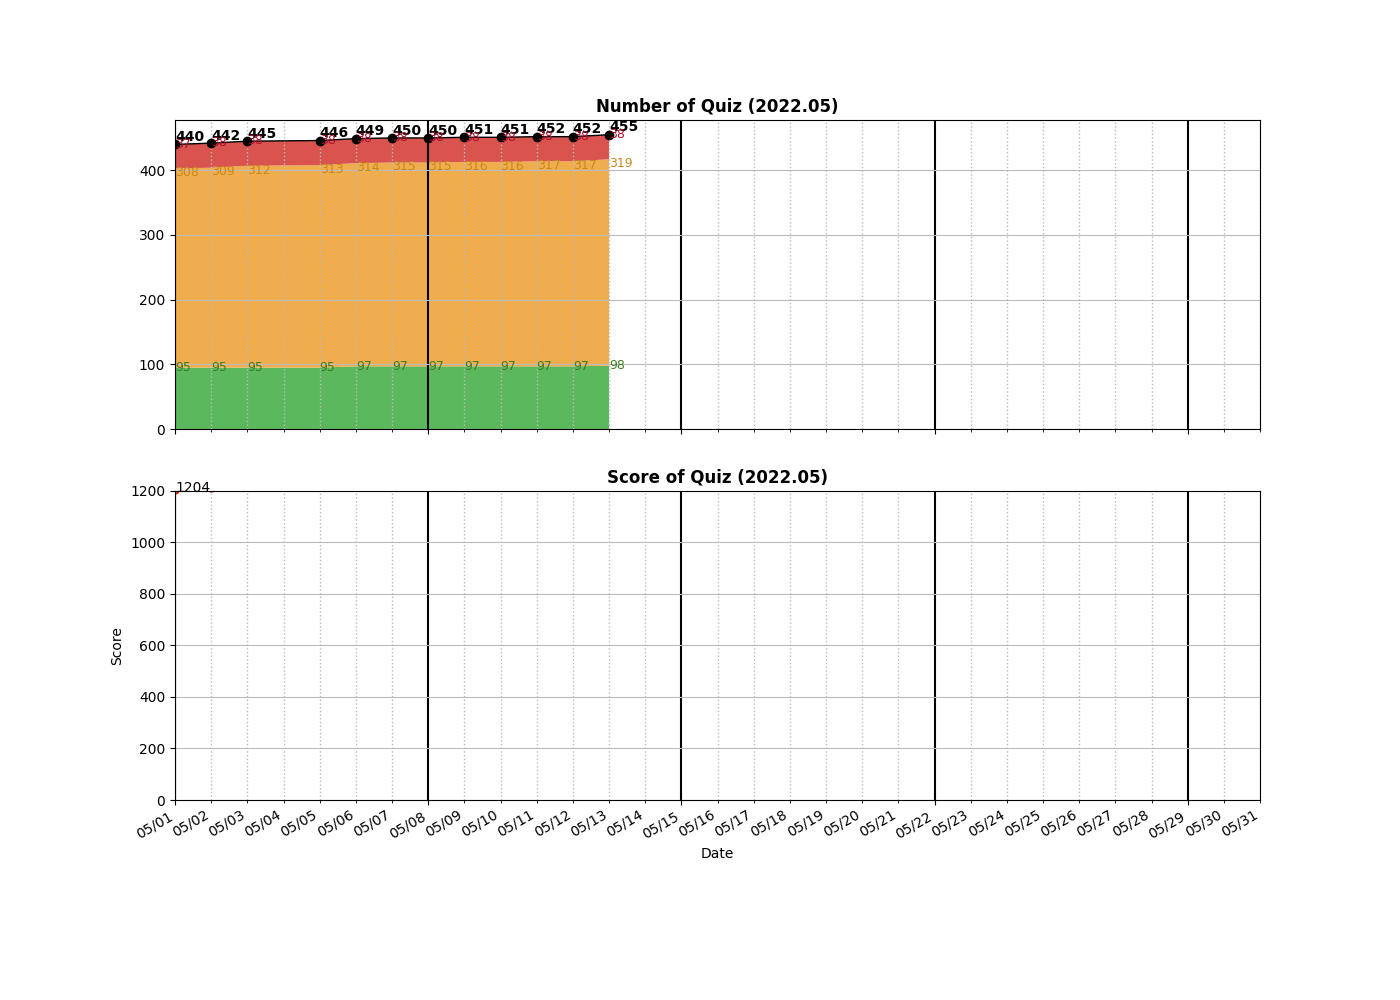
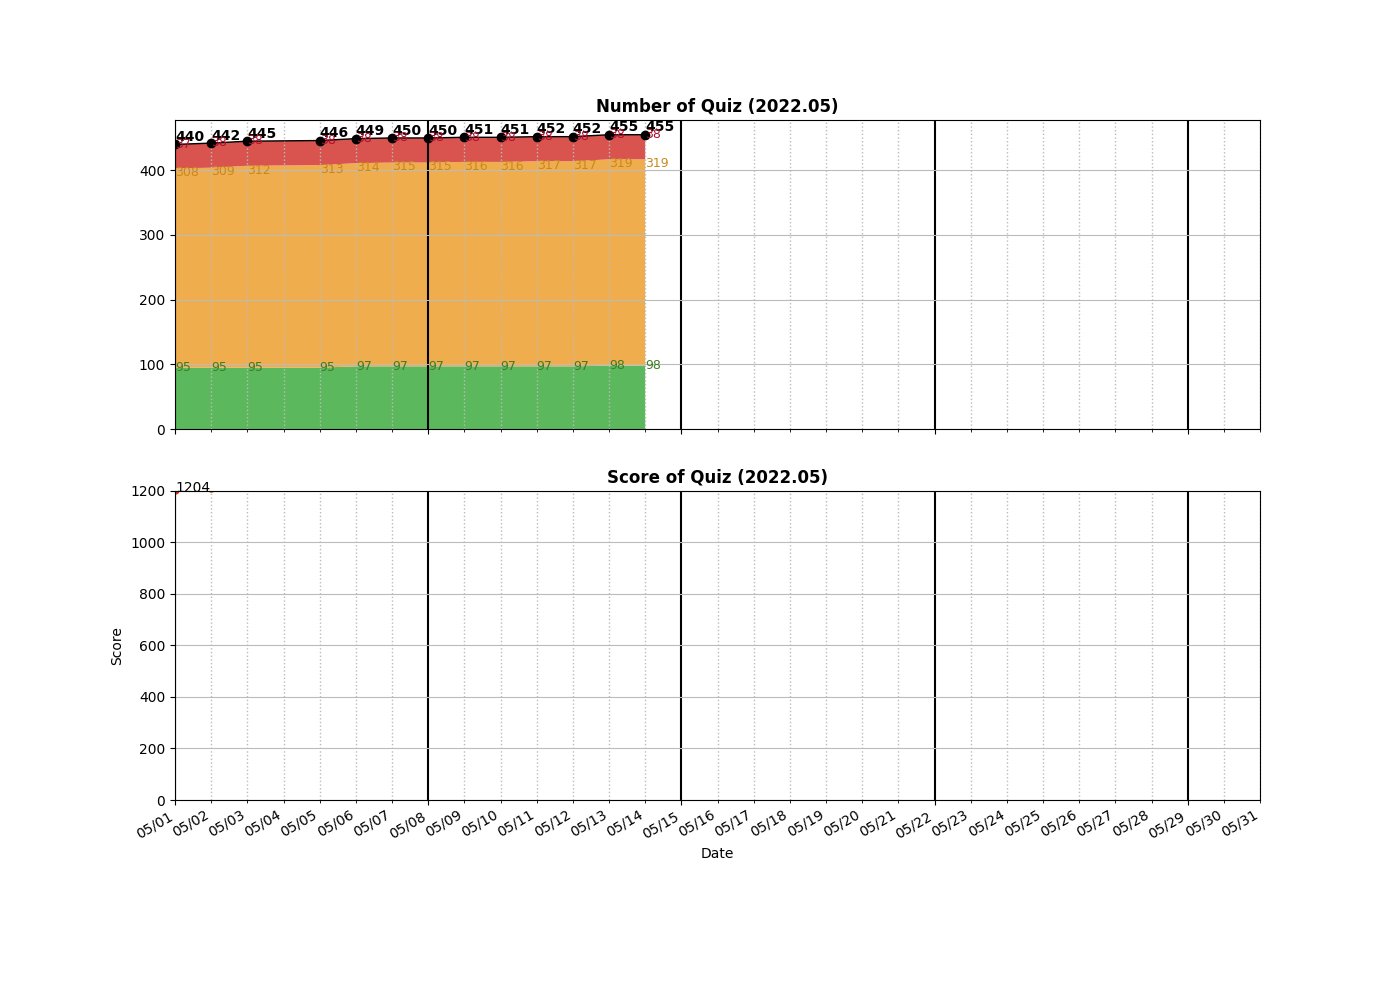
Updated __0047__Permutations II.py

Changed region(s): [[0.43, 0.124, 0.4914, 0.434]]

diff --git a/algo/DFS/__0047__Permutations II.py b/algo/DFS/__0047__Permutations II.py
@@ -1,50 +1,130 @@
 class Solution:
     
-    # Incorrect 
-    def permuteUnique2(self, nums: List[int]) -> List[List[int]]:
-        print("Code3")
+    # 不盡相異物排列
+    # 4 * 3 * 2 * 1 
+    
+    '''
+    (1) sort去重 + visited 判斷填入 for 
+    
+    (2) sort去重 + visited 判斷填入 func 
+    
+    (3) set去重 + visited  
+        TC = O(N! * 1 + N!) 
+        
+    (4) counter 
+    
+    (5) set去重 + swap
+        TC = O(N! * logN + N!) 
+        SC = O(N + N!)    
+    
+    (6) 條件去重 + swap
+
+    '''
+    
+    #2022/05/14
+    # Backtracking - counter (直接就去重，不用set，也不用額外邏輯) [O(): 55% / O(): 10%]
+    def permuteUnique(self, nums: List[int]) -> List[List[int]]:
+        print("Code6 (BEST)")    
+        
+        def dfs(cur, countMap):
+            if len(cur) == len(nums):
+                res.append(list(cur))
+                return 
+            for v, count in countMap.items():
+                if count == 0:
+                    continue
+                countMap[v] -= 1
+                dfs(cur + [v], countMap)
+                countMap[v] += 1
+            
+        res = []
+        dfs([], collections.Counter(nums))
+        return res
+    
+    
+    # 2022/05/14
+    # Backtracking - swap + one layer visited [O(): 19% / O(): 7%]
+    def permuteUnique5(self, nums: List[int]) -> List[List[int]]:
+        print("Code5 (GOOD)")        
+        def dfs(idx):
+            print(idx, nums)
+            if idx == len(nums) :
+                res.append(list(nums))
+                return 
+            visited = set()
+            for i in range(idx, len(nums)):
+                #if i != idx and nums[idx] == nums[i]:  #去重
+                #    continue
+                if nums[i] in visited:
+                    continue
+                visited.add(nums[i])
+                nums[idx], nums[i] = nums[i], nums[idx]
+                dfs(idx + 1)
+                nums[idx], nums[i] = nums[i], nums[idx]
+        res = []
+        dfs(0)
+        return res
+    
+    # 2022/05/14
+    # Backtracking - visited + 最後才用set去重 (會最慢) [O(): 17% / O(): 47%]
+    def permuteUnique4(self, nums: List[int]) -> List[List[int]]:
+        print("Code4 (bad)")
+        
+        def dfs(cur, res, visited):
+            if len(cur) == len(nums):
+                res.add(tuple(cur))
+                return 
+            for i in range(len(nums)):
+                if i in visited:
+                    continue
+                visited.add(i)
+                dfs(cur + [nums[i]], res, visited)
+                visited.remove(i)
+        
+        res = set()
+        visited = set()
+        dfs([], res, visited)
+        return res
+    
+    # 2022/05/14
+    # Backtracking - visited (func) [78% / 59%] 
+    def permuteUnique3(self, nums: List[int]) -> List[List[int]]:
+        print("Code3 (only for practice)")
         
         def dfs(nums, idx, cur, res, visited):
             if idx in visited:
                 return
-            if len(cur) == len(nums):
-                res.append(list(cur))
-                return 
             if idx > 0 and nums[idx] == nums[idx-1] and idx - 1 not in visited:
                 return
-            visited.add(idx)
-            cur.append(nums[idx])
+
+            #cur = cur + [nums[idx]]   #backtracking1 - 用做出新的cur的方法就不用考慮退棧(ok)
+            visited.add(idx)   
+            cur.append(idx)            #backtracking2 - 用idx來做成cur，保證不重複就不會退錯
+            
+            if len(cur) == len(nums):  #最後的判斷要在加入之後 
+                res.append([nums[v] for v in cur])  #使用idx來做cur的話，最後要轉回數值
+                
+                cur.remove(idx)        #走進答案的情況也要退棧
+                visited.remove(idx)    
+                return
+            
             for i in range(len(nums)):
                 dfs(nums, i, cur, res, visited)
-            cur.remove(nums[idx])
+            #cur.remove(nums[idx])     #使用nums[idx]就會造成退棧退錯
+            cur.remove(idx)
             visited.remove(idx)
             
         nums.sort()
         res = []
-        visited = set()
-        dfs(nums, 0, [], res, visited)
+        for i in range(len(nums)):  #用func的方法就變成一開始要在外面加一層for，反而不好
+            visited = set()
+            dfs(nums, i, [], res, visited)
         return res
     
-    '''
-    (1) sort 
-    
-    (2) set去重 + loop 
-        TC = O(N! * 1 + N!) 
-        
-    (3) counter 
-    
-    (4) set去重 + swap
-        TC = O(N! * logN + N!) 
-        SC = O(N + N!)
-    '''
-    
-    # 不盡相異物排列
-    # 4 * 3 * 2 * 1 
-        
     # 2022/05/12
-    # Backtracking 
-    def permuteUnique(self, nums: List[int]) -> List[List[int]]:
-        print("Code2")
+    # Backtracking - visited (for)
+    def permuteUnique2(self, nums: List[int]) -> List[List[int]]:
+        print("Code2 (GOOD)")
         
         def dfs(nums, cur, res, visited):
             if len(cur) == len(nums):
@@ -56,8 +136,8 @@ class Solution:
                     continue
                 if i > 0 and nums[i] == nums[i - 1] and (i - 1) not in visited:
                     continue
-                visited.add(i)
-                dfs(nums, cur + [nums[i]], res, visited)
+                visited.add(i)   #index
+                dfs(nums, cur + [nums[i]], res, visited) #做出新的cur傳入，沒有退棧退錯的問題
                 visited.remove(i)
             
         nums.sort()
@@ -67,7 +147,7 @@ class Solution:
         return res
         
         
-    
+    # 2021/05/27 
     # DFS [O(n!), 65%]
     # 去重的部分要特別注意，必須要事先去重，而不要事後才去重。
     def permuteUnique1(self, nums: List[int]) -> List[List[int]]:

diff --git a/algodraw.py b/algodraw.py
@@ -123,7 +123,7 @@ def draw(dates, values):
     title="Score of Quiz (2021.04 - 2022.04)")
     axs[0].set_title("Number of Quiz", fontweight = 'bold')
     axs[1].set_title("Score of Quiz", fontweight = 'bold')
-    axs[0].set_xlim(datetime.datetime(2021,4,1), datetime.datetime(2022,3,31)) 
+    axs[0].set_xlim(datetime.datetime(2021,4,1), datetime.datetime(2022,5,31)) 
 
     xloc1 = mdates.MonthLocator()
     xloc2 = mdates.WeekdayLocator(SUNDAY)
